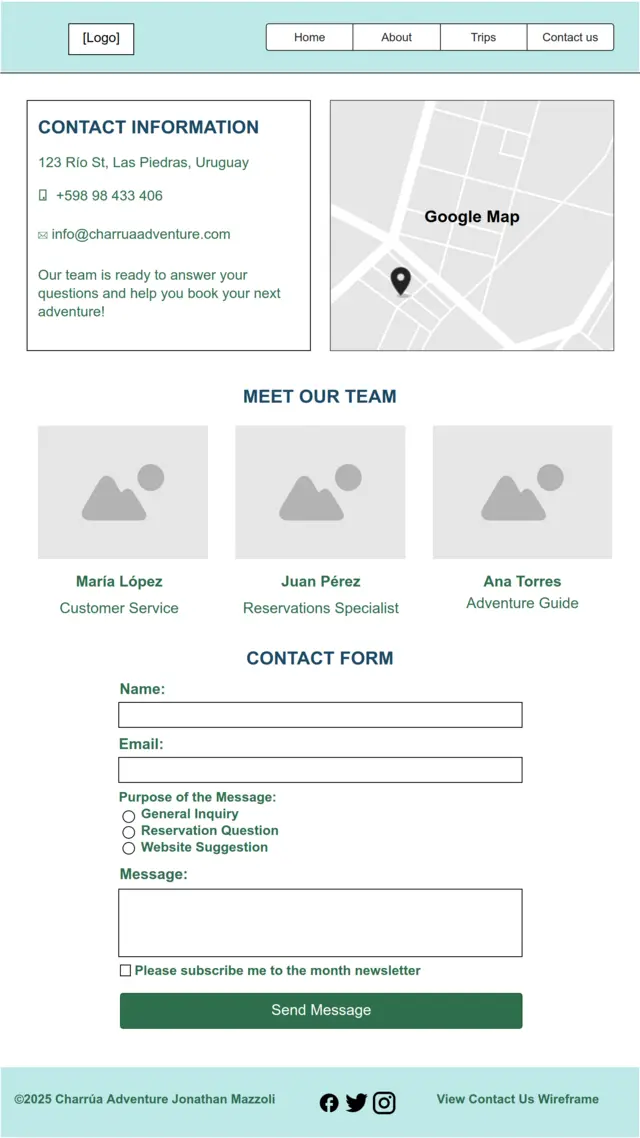
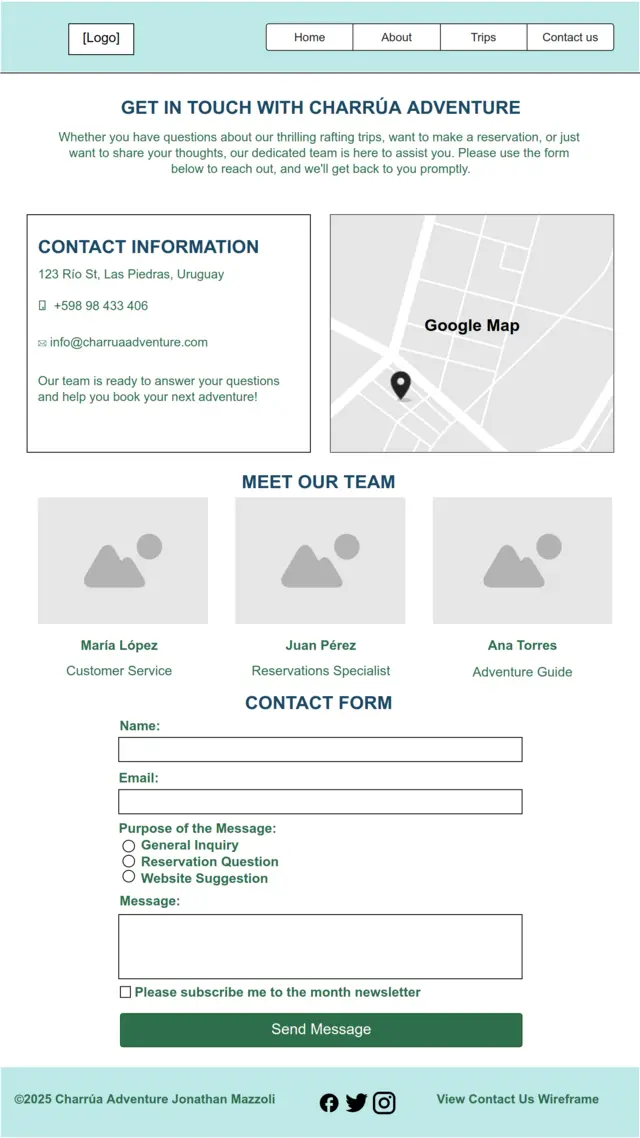
more updates in contact html and css

diff --git a/wwr/contact.html b/wwr/contact.html
@@ -3,8 +3,8 @@
     <head>
         <meta charset="utf-8">
         <meta name="viewport" content="width=device-width,initial-scale=1.0">
-        <title>Contact Us</title>
-        <meta name="description" content="Contact Charrúa Adventure for inquiries, reservations, and suggestions.">
+        <title>Contact Charrúa Adventure Rafting Company</title>
+        <meta name="description" content="Contact Charrúa Adventure for inquiries, reservations, and suggestions about rafting adventures.">
         <meta name="author" content="Jonathan Mazzoli">
         <link rel="stylesheet" href="styles/rafting.css">
 
@@ -12,7 +12,7 @@
         <link rel="preconnect" href="https://fonts.gstatic.com" crossorigin>
         <link href="https://fonts.googleapis.com/css2?family=Bebas+Neue&family=Open+Sans:ital,wght@0,300;0,400;0,600;0,700;1,300;1,400;1,600;1,700&display=swap" rel="stylesheet">
     </head>
-    <body>
+    <body class="contact-page">
         <header class="container">
             <div class="logo-box">
                 <img src="images/raftingsite.jpg" alt="logo image">
@@ -27,6 +27,8 @@
             </nav>
         </header>
         <main>
+            <h1>Get in Touch with Charrúa Adventure</h1>
+            <p>Whether you have questions about our thrilling rafting trips, want to make a reservation, or just want to share your thoughts, our dedicated team is here to assist you. Please use the form below to reach out, and we'll get back to you promptly.</p>
             <section class="contact-info">
                 <div class="info-box">
                     <h2>Contact Information</h2>
@@ -36,7 +38,7 @@
                     <p>Our team is ready to answer your questions and help you book your next adventure!</p>
                 </div>
                 <div class="map-box">
-                    <iframe src="https://www.google.com/maps?q=Las+Piedras,+Uruguay&output=embed" width="550" height="330" style="border: 0;" allowfullscreen="" loading="lazy" referrerpolicy="no-referrer-when-downgrade" title="Map of Las Piedras, Uruguay"></iframe>
+                    <iframe class="map-iframe" src="https://www.google.com/maps/embed?pb=!1m18!1m12!1m3!1d15598.027734838077!2d-56.225363686239774!3d-34.7283424774628!2m3!1f0!2f0!3f0!3m2!1i1024!2i768!4f13.1!3m3!1m2!1s0x95a1cd4c5158acf3%3A0xe0a43fef314c51a4!2s15900%20Las%20Piedras%2C%20Departamento%20de%20Canelones!5e0!3m2!1ses-419!2suy!4v1754099332495!5m2!1ses-419!2suy" allowfullscreen="" loading="lazy" referrerpolicy="no-referrer-when-downgrade" title="Map of Las Piedras, Uruguay"></iframe>
                 </div>
             </section>
             <section class="employees">
@@ -76,15 +78,15 @@
 
                     <fieldset>
                         <legend>Purpose of the Message:</legend>
-                        <label>
+                        <label for="general-inquiry">
                             <input type="radio" name="purpose" value="general" required>
                             General Inquiry
                         </label>
-                        <label>
+                        <label for="reservation-question">
                             <input type="radio" name="purpose" value="reservation">
                             Reservation Question
                         </label>
-                        <label>
+                        <label for="website-suggestion">
                             <input type="radio" name="purpose" value="suggestion">
                             Website Suggestion
                         </label>

diff --git a/wwr/styles/rafting.css b/wwr/styles/rafting.css
@@ -281,6 +281,30 @@ footer p {
   box-shadow: 0 2px 12px rgba(46,110,76,0.18);
 }
 
+body.contact-page main h1 {
+  position: static;       /* Quitar posicion absolute para que no se superponga */
+  margin: 3rem auto 2rem; /* Separación superior e inferior */
+  width: auto;
+  max-width: 840px;       /* Igual que main y footer */
+  padding: 0 1rem;        /* Padding lateral para pantallas pequeñas */
+  font-family: var(--heading-font);
+  font-size: 2.2rem;
+  color: var(--primary-color);
+  text-align: center;
+  text-transform: uppercase;
+  letter-spacing: 2px;
+  background-color: transparent; /* Sin fondo */
+  opacity: 1;                     /* Sin transparencia */
+  z-index: auto;
+}
+
+.map-iframe {
+  border: 0;
+  width: 100%;
+  height: 330px; 
+}
+
+
 .contact-info {
   display: flex;
   justify-content: space-between;
